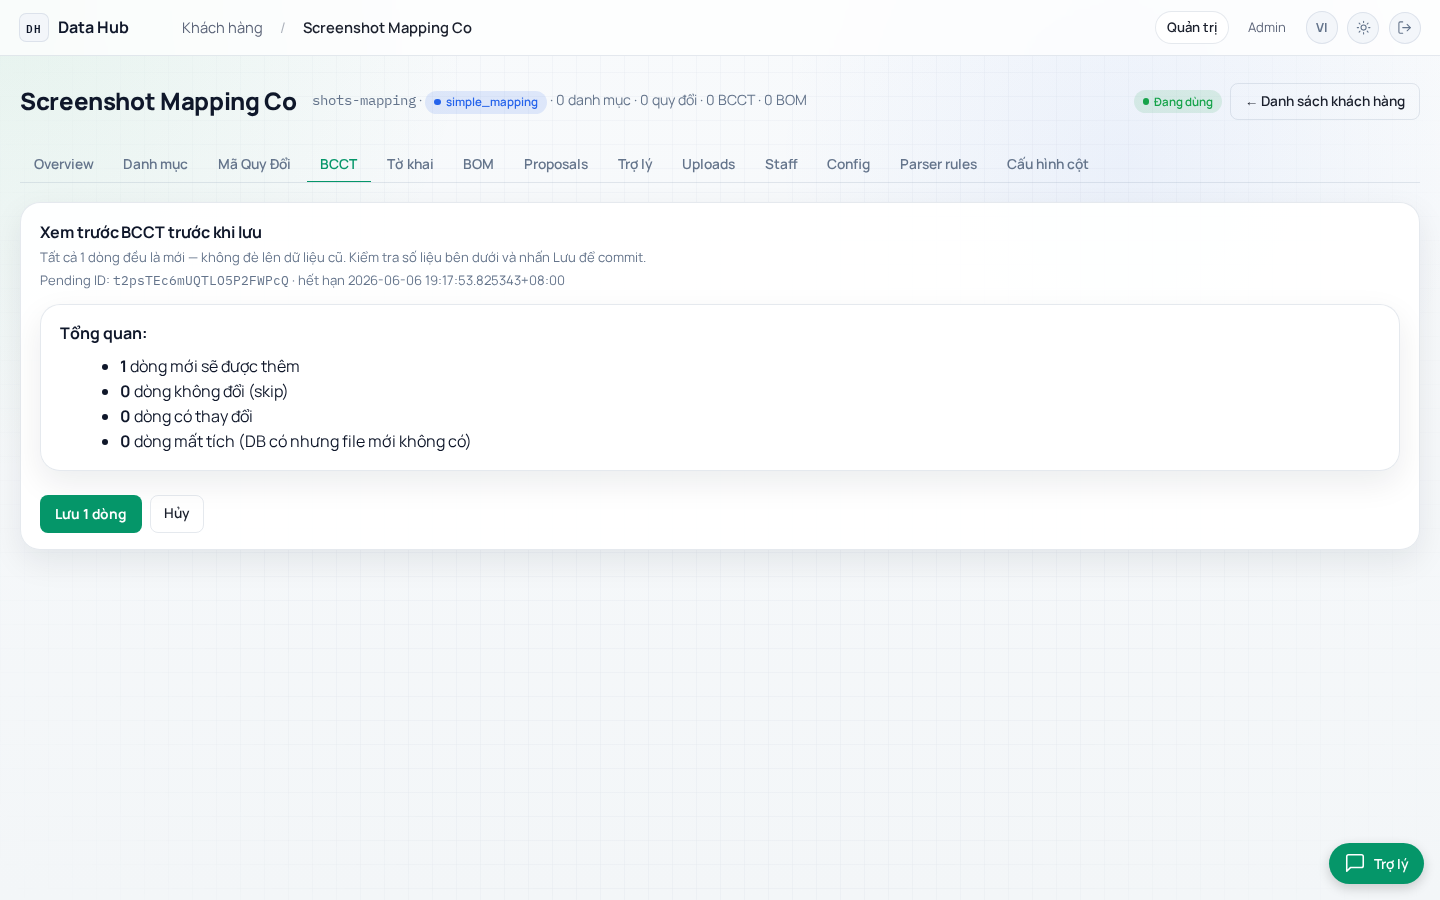
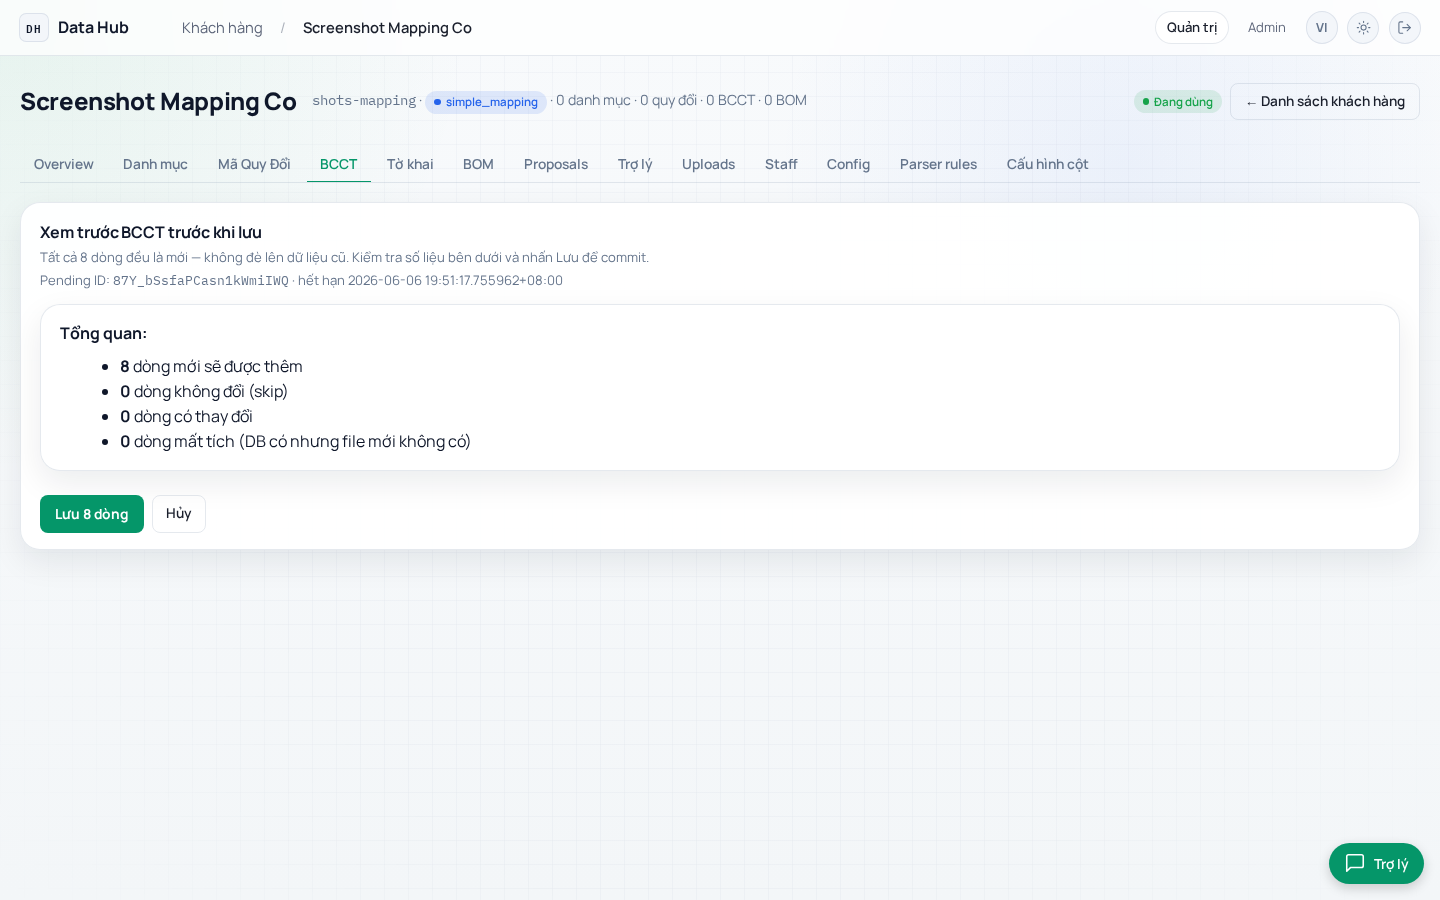
feat(bcct): auto-select no-header when no header detected + real-data shots
When the chosen header row matches no known field (suggest_no_header), the
mapping-page picker now auto-selects '— Không có header —' instead of
defaulting to row 1, and JS relabels the column cells to 'Cột N' (position)
so the operator isn't asked to map data values. Driven by rigid-match
count == 0 in _build_mapping_context.

Regenerate all data-bearing screenshots from REAL johnson-vn BCCT rows
(pulled from the DB) — clean preview, price-swap anomaly gate, and the
no-header mapping page — replacing the invented 'Mã Cty Lạ' placeholders.

Tests: suggest_no_header true for headerless / false for standard headers.

Changed region(s): [[0.0625, 0.28, 0.4375, 0.3422], [0.0938, 0.4044, 0.2188, 0.4356], [0.0625, 0.56, 0.1562, 0.5911]]

diff --git a/app/templates/clients/_upload_mapping.html b/app/templates/clients/_upload_mapping.html
@@ -61,15 +61,21 @@
       <label for="header_row_override"><strong>Dòng header:</strong></label>
       <select name="header_row_override" id="header_row_override">
         {% for r_no, n_filled in candidate_header_rows %}
-        <option value="{{ r_no }}" {% if r_no == default_header_row_no %}selected{% endif %}>
+        <option value="{{ r_no }}"
+                {% if not suggest_no_header and r_no == default_header_row_no %}selected{% endif %}>
           Dòng {{ r_no }} ({{ n_filled }} ô có dữ liệu)
         </option>
         {% endfor %}
-        <option value="0">— Không có header (dữ liệu từ dòng 1) —</option>
+        <option value="0" {% if suggest_no_header %}selected{% endif %}>— Không có header (dữ liệu từ dòng 1) —</option>
       </select>
       <span class="meta">Mặc định = dòng Hub đoán là header. Đổi nếu file có
         banner/legend phía trên. Chọn <em>Không có header</em> nếu file không
         có dòng tiêu đề — cột sẽ map theo vị trí và dòng 1 được giữ làm dữ liệu.</span>
+      {% if suggest_no_header %}
+      <span class="meta" style="color: var(--warn, #c97a00);">
+        Hub không nhận diện được dòng header — đã chọn sẵn <em>Không có header</em>.
+      </span>
+      {% endif %}
     </div>
 
     <div class="form-row">
@@ -93,7 +99,9 @@
       <tbody>
         {% for col in column_map %}
         <tr>
-          <td><code>{{ col.header or '(cột '+ col.index|string +')' }}</code></td>
+          <td><code class="col-name" data-index="{{ col.index }}"
+                     data-header="{{ col.header or '(cột '+ col.index|string +')' }}"
+            >{{ col.header or '(cột '+ col.index|string +')' }}</code></td>
           <td class="meta">→</td>
           <td>
             <select name="col_{{ col.index }}__field" data-header="{{ col.header }}"
@@ -154,5 +162,31 @@
   .mapping-config-table .field-hint { color: var(--warn, #c97a00); margin-left: 0.4rem; }
   .form-row { display: flex; gap: 0.5rem; align-items: center; flex-wrap: wrap; padding: 0.4rem 0; }
 </style>
+
+<script>
+  // No-header mode: when the header-row picker is set to "Không có header"
+  // (value 0), relabel the column cells to "Cột N" (position) — their real
+  // text is data, not a header — and drop the misleading header-row
+  // highlight in the preview. Restores on switching back to a real row.
+  (function () {
+    var picker = document.getElementById('header_row_override');
+    if (!picker) return;
+    var names = document.querySelectorAll('.col-name');
+    var headerRows = document.querySelectorAll('.mapping-raw-table .row-as-header');
+    function sync() {
+      var noHeader = picker.value === '0';
+      names.forEach(function (el) {
+        var idx = parseInt(el.getAttribute('data-index'), 10);
+        el.textContent = noHeader ? ('Cột ' + (idx + 1)) : el.getAttribute('data-header');
+      });
+      headerRows.forEach(function (tr) {
+        tr.style.background = noHeader ? '' : '';
+        tr.classList.toggle('row-as-header', !noHeader);
+      });
+    }
+    picker.addEventListener('change', sync);
+    sync();
+  })();
+</script>
 
 {% endblock %}

diff --git a/scripts/screenshot_bcct_mapping_flow.py b/scripts/screenshot_bcct_mapping_flow.py
@@ -1,22 +1,21 @@
 """Playwright screenshots for the BCCT mapping-flow overhaul (2026-06-05).
 
-Captures the full flow:
+Uses REAL johnson-vn BCCT rows (pulled from the DB) for every data-bearing
+shot. Captures the full flow:
   01 upload page
-  02 mapping page (non-standard header → manual map; auto-guess count +
-     'cần chọn' flag + scrollable preview)
+  02 no-header mapping (header stripped → picker auto-selects "Không có
+     header"; columns labelled "Cột N" by position)
   03 clean preview (standard headers auto-mapped → straight to Diff)
-  04 anomaly preview (price-column inversion → hard gate + ack)
+  04 anomaly preview (the two đơn-giá columns swapped → hard gate + ack)
   05 admin per-client column-alias config
 
-Bypasses login with a direct session cookie. Self-contained: sets up a
-throwaway client + sample alias, captures, cleans up. Dev server must be
-running on :8754.
+Real values, throwaway client (clean diff), session-cookie auth, self
+clean-up. Dev server must be running on :8754.
 """
 from __future__ import annotations
 
 import asyncio
 import io
-import json
 from pathlib import Path
 
 import httpx
@@ -28,21 +27,48 @@ from app.database import connect
 
 BASE = "http://127.0.0.1:8754"
 CLIENT = "shots-mapping"
-ADMIN = "u_31151f0497094109"  # admin@data-hub.local (role=dev)
+ADMIN = "u_31151f0497094109"  # admin@data-hub.local
 OUT = Path(".ai/features/2026-06-05-bcct-mapping-flow-overhaul/screenshots")
 OUT.mkdir(parents=True, exist_ok=True)
 
+# Standard BCCT headers (alias-matched). Đơn giá = nguyên tệ (unit_price_nt),
+# Đơn giá tính thuế = VND (unit_price).
+HEADERS = ("Số tờ khai", "Dòng", "Mã loại hình", "Ngày đăng ký", "Mã NPL/SP",
+           "Tên hàng", "Tổng số lượng", "ĐVT", "Tổng trị giá", "Đơn giá",
+           "Đơn giá tính thuế", "Trị giá NT", "Nguyên tệ", "Tỷ giá")
 
-def _xlsx(rows) -> bytes:
+
+def _real_rows() -> list[tuple]:
+    with connect() as c, c.cursor() as cur:
+        cur.execute("""
+            select declaration_no, line_no, declaration_type, registration_date,
+                   customs_code, goods_name, quantity, unit, total_value,
+                   unit_price_nt, unit_price, total_value_nt, currency_nt, exchange_rate
+            from hub.bcct_rows
+            where client_id='johnson-vn' and currency_nt is not null
+              and currency_nt not in ('VND','') and unit_price is not null
+              and unit_price_nt is not null
+            order by registration_date desc, line_no limit 8
+        """)
+        out = []
+        for r in cur.fetchall():
+            out.append(tuple("" if v is None else
+                             (v.isoformat() if hasattr(v, "isoformat") else v)
+                             for v in r))
+        return out
+
+
+def _xlsx(rows, *, header=True, swap_prices=False) -> bytes:
     wb = Workbook(); ws = wb.active; ws.title = "BCCT"
+    if header:
+        ws.append(list(HEADERS))
     for r in rows:
+        r = list(r)
+        if swap_prices:
+            # swap "Đơn giá" (idx 9) <-> "Đơn giá tính thuế" (idx 10)
+            r[9], r[10] = r[10], r[9]
         ws.append(r)
     buf = io.BytesIO(); wb.save(buf); return buf.getvalue()
-
-
-def _write(path: str, blob: bytes):
-    Path(path).write_bytes(blob)
-    return path
 
 
 def _db_setup():
@@ -53,38 +79,8 @@ def _db_setup():
         cur.execute(
             "insert into hub.client_column_aliases "
             "(client_id, module, field, alias, enabled, created_by) "
-            "values (%s,'bcct','customs_code','Mã Cty XYZ',true,%s) "
+            "values (%s,'bcct','goods_name','Diễn giải hàng hóa',true,%s) "
             "on conflict do nothing", (CLIENT, ADMIN))
-
-
-def _db_stash_anomaly() -> str:
-    pid = "shots_anom_pending"
-    rows = [{
-        "transaction_key": f"SHOT_{i}", "line_no": "1",
-        "declaration_no": f"30849019{i:04d}", "declaration_type": "E42",
-        "direction": "export", "registration_date": "2026-05-18",
-        "customs_code": f"MFW0506-{i}", "goods_name": "Ghế tập đẩy tạ",
-        "currency_nt": "EUR", "exchange_rate": 30377.72,
-        "unit_price": 380.7, "unit_price_nt": 10136289.92,  # swapped!
-        "total_value": 5111658.94, "total_value_nt": 168.27,
-    } for i in range(1, 6)]
-    summary = {"new": len(rows), "noop": 0, "diff": [], "orphan": [],
-               "total": len(rows)}
-    with connect() as c, c.cursor() as cur:
-        cur.execute(
-            "insert into hub.file_uploads (upload_id, client_id, module, "
-            "original_filename, stored_path, content_sha256, size_bytes, "
-            "uploader_user_id) values ('shots_upl',%s,'bcct','tk.xlsx',"
-            "'/tmp/tk.xlsx','sha',1,%s) on conflict (upload_id) do nothing",
-            (CLIENT, ADMIN))
-        cur.execute(
-            "insert into hub.upload_pending (pending_id, client_id, module, "
-            "upload_id, parsed_rows, diff_summary, created_by, expires_at) "
-            "values (%s,%s,'bcct','shots_upl',%s::jsonb,%s::jsonb,%s, "
-            "now()+interval '1 day') on conflict (pending_id) do update set "
-            "parsed_rows=excluded.parsed_rows, diff_summary=excluded.diff_summary",
-            (pid, CLIENT, json.dumps(rows), json.dumps(summary), ADMIN))
-    return pid
 
 
 def _db_cleanup():
@@ -95,56 +91,35 @@ def _db_cleanup():
         cur.execute("delete from hub.clients where client_id=%s", (CLIENT,))
 
 
-async def _shot(page, slug):
-    await page.wait_for_timeout(400)
-    out = OUT / f"{slug}.png"
-    await page.screenshot(path=str(out), full_page=True)
-    print(f"  saved {out}")
-
-
-def _upload_get_location(sid: str, blob: bytes) -> str:
-    """POST a BCCT upload server-side; return the redirect Location (the
-    mapping or preview URL). Decouples screenshotting from browser form
-    mechanics."""
+def _upload(sid: str, blob: bytes) -> str:
     r = httpx.post(
         f"{BASE}/clients/{CLIENT}/bcct/upload",
         cookies={SESSION_COOKIE: sid},
-        files={"file": ("t.xlsx", blob,
+        files={"file": ("tk.xlsx", blob,
                         "application/vnd.openxmlformats-officedocument.spreadsheetml.sheet")},
-        follow_redirects=False, timeout=30,
-    )
+        follow_redirects=False, timeout=30)
     assert r.status_code == 303, f"upload failed: {r.status_code} {r.text[:200]}"
     return r.headers["location"]
+
+
+async def _shot(page, slug):
+    await page.wait_for_timeout(400)
+    await page.screenshot(path=str(OUT / f"{slug}.png"), full_page=True)
+    print(f"  saved {slug}.png")
 
 
 async def main():
     _db_setup()
     sid = create_session(ADMIN)
-    anom_pid = _db_stash_anomaly()
+    rows = _real_rows()
+    assert rows, "no real johnson-vn rows found"
 
-    # Server-side uploads → grab the mapping/preview URLs to screenshot.
-    mapping_url = _upload_get_location(sid, _xlsx([
-        ("Số tờ khai", "Ngày đăng ký", "Mã Cty Lạ", "Tên hàng", "Đơn giá",
-         "Đơn giá tính thuế", "Nguyên tệ", "Tỷ giá"),
-        ("308400001", "2026-05-18", "PE-1", "Polyethylene", 380.7,
-         11564000, "EUR", 30377),
-    ]))
-    preview_url = _upload_get_location(sid, _xlsx([
-        ("Số tờ khai", "Dòng", "Mã loại hình", "Ngày đăng ký", "Mã NPL/SP",
-         "Tên hàng", "Tổng số lượng", "ĐVT", "Trị giá", "Nguyên tệ"),
-        ("308400002", 1, "E11", "2026-05-18", "PE-CLEAN", "Polyethylene",
-         100.0, "kg", 250.0, "USD"),
-    ]))
-    # Headerless file → mapping page exposes the "Không có header" option.
-    noheader_url = _upload_get_location(sid, _xlsx([
-        ("308400001", "1", "E11", "2026-05-18", "PE-1", "Polyethylene",
-         "100", "kg", "250", "USD"),
-        ("308400002", "1", "E11", "2026-05-18", "PE-2", "PP resin",
-         "80", "kg", "200", "USD"),
-    ]))
-    print("  mapping_url ->", mapping_url)
-    print("  preview_url ->", preview_url)
-    print("  noheader_url ->", noheader_url)
+    clean_url = _upload(sid, _xlsx(rows))
+    anomaly_url = _upload(sid, _xlsx(rows, swap_prices=True))
+    noheader_url = _upload(sid, _xlsx(rows, header=False))
+    print("  clean ->", clean_url)
+    print("  anomaly ->", anomaly_url)
+    print("  noheader ->", noheader_url)
     try:
         async with async_playwright() as p:
             browser = await p.chromium.launch(headless=True)
@@ -157,23 +132,14 @@ async def main():
 
             await page.goto(f"{BASE}/clients/{CLIENT}/bcct/upload")
             await _shot(page, "01_bcct_upload")
-
-            await page.goto(f"{BASE}{mapping_url}")
-            await _shot(page, "02_mapping_page")
-
-            await page.goto(f"{BASE}{preview_url}")
+            await page.goto(f"{BASE}{noheader_url}")
+            await _shot(page, "02_no_header_mapping")
+            await page.goto(f"{BASE}{clean_url}")
             await _shot(page, "03_preview_clean")
-
-            await page.goto(f"{BASE}/clients/{CLIENT}/bcct/upload/preview/{anom_pid}")
+            await page.goto(f"{BASE}{anomaly_url}")
             await _shot(page, "04_preview_anomaly")
-
             await page.goto(f"{BASE}/clients/{CLIENT}/column-aliases?module=bcct")
             await _shot(page, "05_column_aliases")
-
-            await page.goto(f"{BASE}{noheader_url}")
-            # open the header-row picker so the "Không có header" option shows
-            await _shot(page, "06_no_header_mapping")
-
             await browser.close()
     finally:
         _db_cleanup()

diff --git a/tests/test_bcct_no_header.py b/tests/test_bcct_no_header.py
@@ -99,6 +99,33 @@ def test_no_header_flow_keeps_all_rows(tmp_path, monkeypatch):
             cur.execute("delete from hub.users where user_id=%s", (uid,))
 
 
+def test_headerless_file_suggests_no_header():
+    from app.routes._mapping_flow import _build_mapping_context
+    from app.routes.bcct import BCCT_MAPPING_CFG
+    blob = _xlsx([
+        ("308400001", "1", "E11", "2026-05-18", "PE-1", "Poly", "100", "kg", "250", "USD"),
+        ("308400002", "1", "E11", "2026-05-18", "PE-2", "PP", "80", "kg", "200", "USD"),
+    ])
+    ctx = _build_mapping_context(
+        client_id="no-such-client", upload_id="u", cfg=BCCT_MAPPING_CFG,
+        blob=blob, file_signature=None, extra={}, rigid_only=True)
+    assert ctx["suggest_no_header"] is True
+
+
+def test_standard_header_file_does_not_suggest_no_header():
+    from app.routes._mapping_flow import _build_mapping_context
+    from app.routes.bcct import BCCT_MAPPING_CFG
+    blob = _xlsx([
+        ("Số tờ khai", "Dòng", "Mã loại hình", "Ngày đăng ký", "Mã NPL/SP",
+         "Tên hàng", "Tổng số lượng", "ĐVT", "Trị giá", "Nguyên tệ"),
+        ("308400001", 1, "E11", "2026-05-18", "PE-1", "Poly", 100, "kg", 250, "USD"),
+    ])
+    ctx = _build_mapping_context(
+        client_id="no-such-client", upload_id="u", cfg=BCCT_MAPPING_CFG,
+        blob=blob, file_signature=None, extra={}, rigid_only=True)
+    assert ctx["suggest_no_header"] is False
+
+
 def test_positional_skips_identifierless_row():
     # A row with no declaration_no AND no customs_code is skipped, not parsed.
     blob = _xlsx([

diff --git a/app/routes/_mapping_flow.py b/app/routes/_mapping_flow.py
@@ -556,6 +556,12 @@ def _build_mapping_context(
             "proposed": proposed,
         })
 
+    # If the chosen "header" row matches NO known field, it's almost
+    # certainly a data row (the file has no header). Suggest the no-header
+    # / positional option by default so row 1 isn't consumed as a header.
+    n_proposed = sum(1 for c in column_map if c["proposed"])
+    suggest_no_header = bool(column_map) and n_proposed == 0
+
     return {
         "upload_id": upload_id,
         "module": cfg.name,
@@ -564,6 +570,7 @@ def _build_mapping_context(
         "raw_rows": raw_rows,
         "candidate_header_rows": candidate_header_rows,
         "default_header_row_no": default_header_row_no,
+        "suggest_no_header": suggest_no_header,
         "column_map": column_map,
         "logical_fields": list(cfg.logical_fields),
         "min_identifier_fields": sorted(cfg.min_identifier_fields),

diff --git a/.ai/features/2026-06-05-bcct-mapping-flow-overhaul/brief.md b/.ai/features/2026-06-05-bcct-mapping-flow-overhaul/brief.md
@@ -12,6 +12,10 @@ Phase 5 (no-header files): parser `positional_override` (0-based col index
 gains a "— Không có header —" option (value 0) → route maps by column
 position and skips the per-shape cache. Solves the headerless case where
 the first data row was previously eaten as a header (1 of N rows lost).
+When the chosen header row matches NO known field (`suggest_no_header`),
+the picker AUTO-SELECTS "Không có header" and JS relabels the column cells
+to "Cột N" — the operator no longer has to notice and switch manually.
+Screenshots regenerated from REAL johnson-vn BCCT rows (not placeholders).
 
 ## Problem / incident
 
